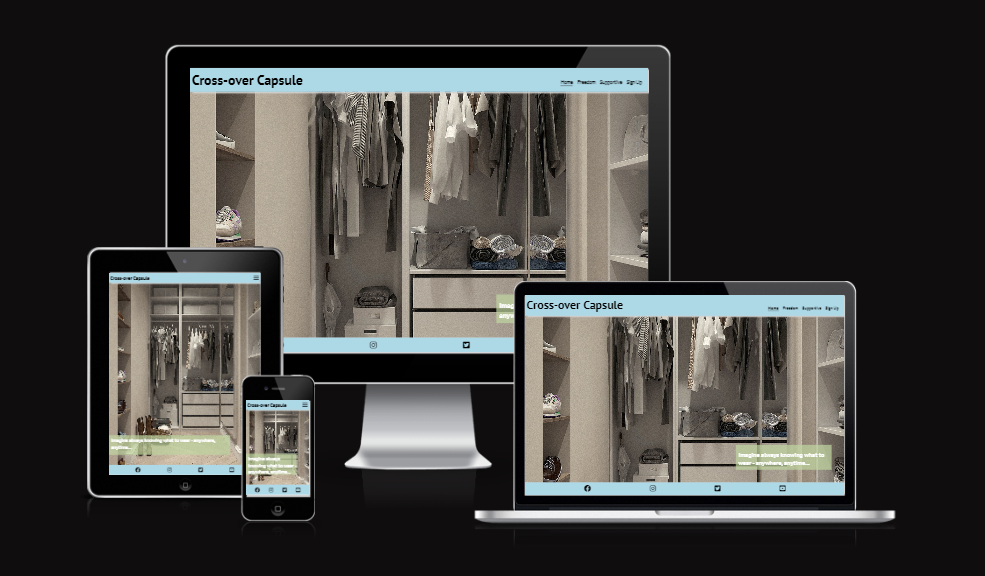
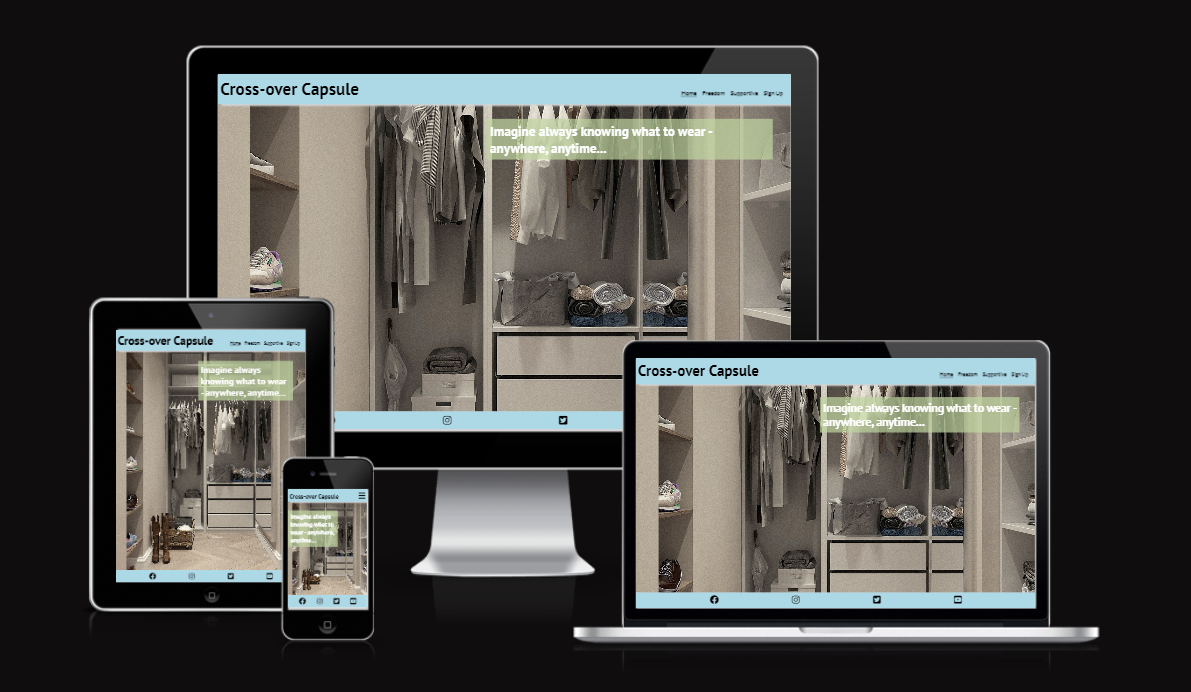
readme content first draft complete

Changed region(s): [[0.0609, 0.0625, 0.9442, 0.9375]]

diff --git a/README.md b/README.md
@@ -1,10 +1,94 @@
 ![COC_logo](assets/images/COC_Icon.png)
 
 # Cross-over Capsule
-Cross-over Capsule is intended to provide a solution for professionals too busy living life to worry about what they should wear. The site targets people who want to maximise living and minimise stress.
+Cross-over Capsule is intended to provide a support for professionals too busy living life to worry about what they should wear. The site targets people who want to maximise their freedom of living and to minimise stress.
 
 ![Responsive](assets/images/responsive-results.png)
 
-View on Cross-over Capsule on [Github](https://caylindewey.github.io/cross-over-capsule-102/) Pages
+The site is responsive to viewing on mobiles, tablets, laptops, and desktops. View on Cross-over Capsule on [Github](https://caylindewey.github.io/cross-over-capsule-102/) Pages.
 
 ## Features
+### User Experience
+![Design](assets/images/wireframe_cross-over_capsule_v1.png)
+
+#### User-Experience Centered Design
+Initally the site was designed a strong focus on avoiding decision fatigue. A very clean, "easy to take in" style was adopted. As the project evolved the header and footer color was made light blue. The intention is to ease the user into a really clean, simple, and easy user-experience.
+
+
+
+#### Navigaton Efficiency
+The navigation bar linked to pages as opposed to having the site on one page with hyperlinks to sections.  This is to enhance predictablity for future growth.  Users are ensured continuity as the busieness expands. Endless scrolling is also avoided.  Each stroke and click is efficient.
+
+
+#### Imagery
+The images presents the user experience as it unfolds on the navigation bar from left to right.   
+- Home: Here the user is presented with the idea of looking at their wardrobe knowing what they are going to wear anywhere, anytime! [Home](assets/images/home_tablet.png)  
+
+- Freedom: Imagine if packing could be a serene and masterful task - even to the point that your beanie matches your luggage!  [Freedom](assets/images/freedom_tablet.png)
+
+- Supportive: The user is presented with ideas on how using this product is supportive internally as well as externally. There could be so many positive consequences of doing business on this site and being associated with this brand.  [Support](assets/images/supportive_tablet.png)
+
+- Signup: Your orders can be processed by staff that take ethics and professionalism seriously.  [signup](assets/images/signup_tablet.png)
+ 
+### Future Implementations
+In future it would be great to have a few shots and clips of influencers that fit our demographic. Examples would be influencers that rate tech, travel gear, travel destinations, etc. It would be great to feature their wardrobe and what they selected and why.
+
+It may be prudent to keep an eye on the [Labfresh](https://labfresh.nl/) and [ninepine](https://www.ninepine.nl/) sites for inspiration. It would also be really cool to collaborate with their people, maybe even featuring their founders. This triple all three brands exposure in keeping with contemporary podcasters recipe for marketing.
+
+#### Accessibility
+I would strongly recommend that more time be spent on ensuring that this site is accessible to all users and so inclusive.
+
+#### Readme File Improvements
+The readme file could containt badges and shields with up to date stats.  It could also have instructions for local development and cloning as seen on [Kera Cudmore's readme example](https://github.com/kera-cudmore/Bully-Book-Club#local-development). 
+
+## Technologies Used/Acknowledgements
+### Languages
+HTML and CSS were used to create this website.
+
+### Frameworks, Programs and Libraries
+- [Figjam](https://www.figma.com/) was used for the wireframe
+- [Lightshot](https://app.prntscr.com/en/index.html) was used for screendumps
+- [Google Fonts](https://fonts.google.com/) was used to imports fonts to the website
+- [Git](https://git-scm.com/) was used for version control
+- [Github](https://github.com/) was used to save and store files
+- [Font Awesome](https://fontawesome.com/v4/icons/) was used for all icons
+- [Favicon](https://favicon.io/favicon-converter/) was used to create the favicon
+- [Am I Responsive](https://ui.dev/amiresponsive) was used for the image of the range of devices
+- [Code Institute Readme Template](Code-Institute-Solutions/readme-template) 
+- [Code Institue Alumna's, Kera Cudmore, Readme Tutorial](https://github.com/kera-cudmore)
+- [Code Institute Student Tutor and Mentor Support](https://learn.codeinstitute.net/ci_support/diplomainfullstacksoftwarecommoncurriculum/support)
+
+### Deployment
+Github was used to deploy this site.  The steps are as follows:
+1. Log into the [Github site](https://github.com/)
+2. Pull up the repository for [Cross-over Capsule](https://github.com/CaylinDewey/cross-over-capsule-102)
+3. Use to [fork button](assets/images/github_fork.png) on the top right hand corner 
+
+## Testing
+### Workflow
+At various stages of the project, feedback was gained and changes made to:
+- Navigation item Freedom was initially a palette tab. It was recommended that I focus on user experience instead of a sales pitch. I was quote with the idea that if you want someone to sail with you, you need to get them to fall inlove with open waters and not pitch the actual ship tasks to them.
+- Navigation item Supportive was initially a measurements tab. Once again, this mundane task was replaced with an almost Steve Jobs pitch of internal as well as external idealism.
+- Several tweeks had to be made for responsiveness throughout the project, on all the pages.
+- There was a concern that the signup tab form dissappeared behind the white bits of the underlying image. A vote was made by concerned opionators and it was decided to leave it for now.
+- Halfway through the project I ran out of Codeanywhere hours and the Code Institute Tutor had me working on Gitpod within a day - so efficient!!
+
+### Tests
+#### Validator
+All HTML and CSS pages were tested.  Most of the bugs found were syntax bugs that were easily resolved.  Errors were thus corrected until there were no errors.
+
+#### Lighthouse
+The [Lighthouse scores](assets/images/lighthouse_result.png) for accessibility, best practices and SEO were 100%.  The score for performance was only 74%.  A panel will be consulted to measure the weight of this as a priority for work on the site.
+
+#### Signup Form
+The [signup form](assets/images/signup_data_dump.png) data was submitted correctly. [Errors](assets/images/signup_errs.png) messages prevent forms with invalid data being submitted. 
+
+## Support
+Please contact me for support 24/7 on email wishful@thinking.com or join our Slack channel.
+
+## Frequently Asked Questions
+This section will be populated as social media comments and interaction is generated.
+
+
+
+
